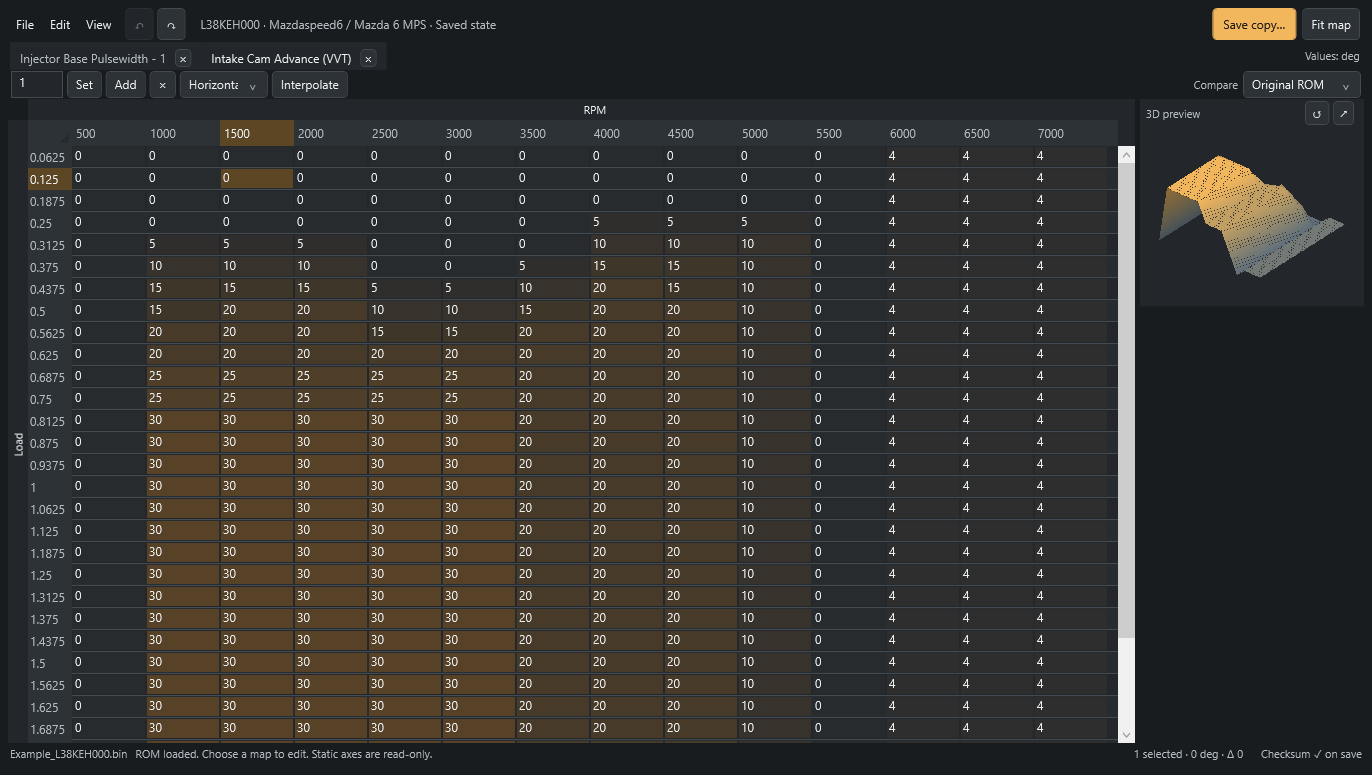
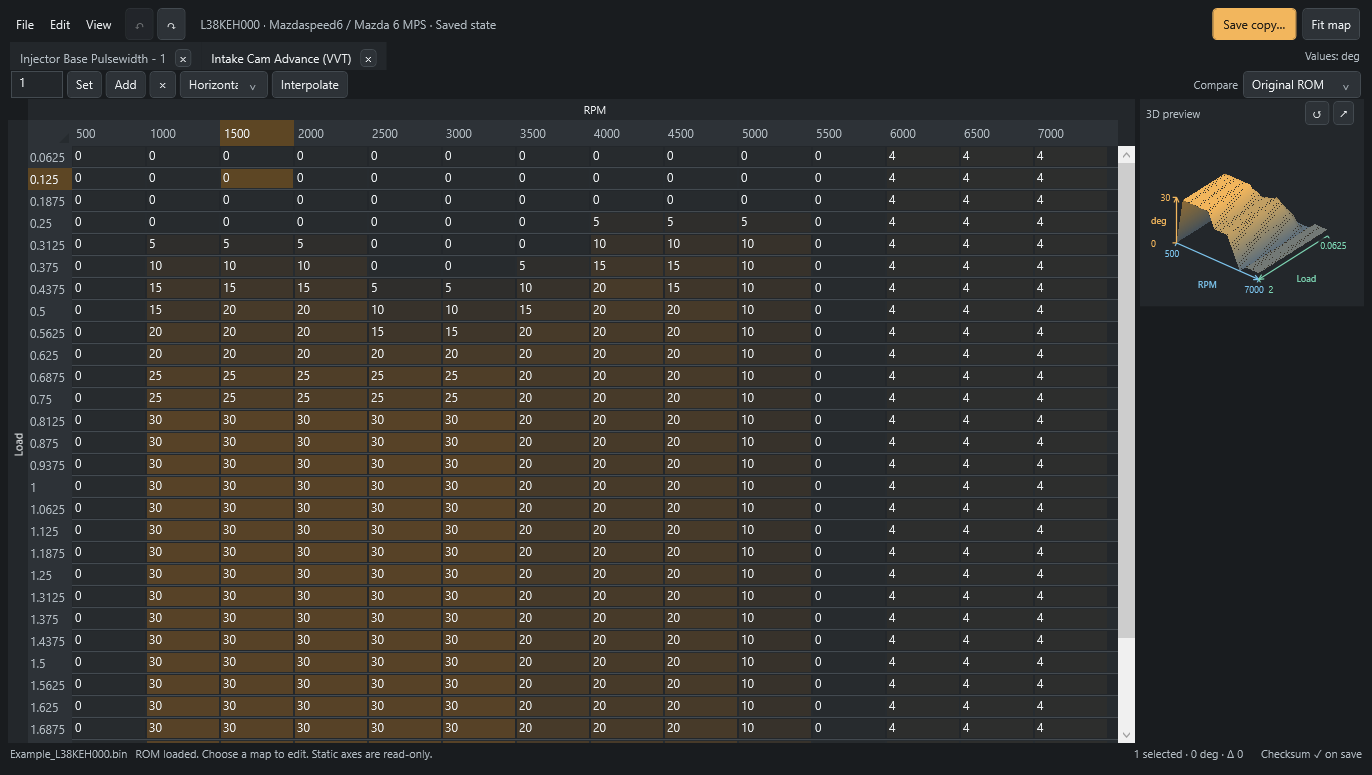
Label axes directly on 3D maps

Changed region(s): [[0.8265, 0.1858, 0.9796, 0.3716]]

diff --git a/dotnet/src/SpeedLink.Desktop/SurfaceAxes.cs b/dotnet/src/SpeedLink.Desktop/SurfaceAxes.cs
@@ -1,0 +1,97 @@
+using System.Globalization;
+using System.Windows;
+using System.Windows.Media;
+using System.Windows.Media.Media3D;
+using SpeedLink.Core;
+
+namespace SpeedLink.Desktop;
+
+/// <summary>Axis rulers attached to the surface's world coordinates, with screen-space text.</summary>
+internal sealed class SurfaceAxes : FrameworkElement
+{
+    private static readonly Brush XColor = new SolidColorBrush(Color.FromRgb(124, 196, 237));
+    private static readonly Brush YColor = new SolidColorBrush(Color.FromRgb(125, 213, 179));
+    private OrthographicCamera? camera;
+    private TuningTable? table;
+    private double[] finite = [];
+    private bool compact;
+    internal string Labels => table is null ? "" : $"{table.X.Name} {table.Y.Name} {table.Units}";
+    internal void SetData(TuningTable? definition, double[] values, bool small)
+    {
+        table = definition; finite = values.Where(double.IsFinite).ToArray(); compact = small; InvalidateVisual();
+    }
+    internal void SetCamera(OrthographicCamera value) { camera = value; InvalidateVisual(); }
+    internal Point Project(Point3D point)
+    {
+        if (camera is null) return new();
+        Vector3D right = Vector3D.CrossProduct(camera.LookDirection, camera.UpDirection); right.Normalize();
+        Vector3D up = Vector3D.CrossProduct(right, camera.LookDirection); up.Normalize();
+        Vector3D relative = point - (camera.Position + camera.LookDirection);
+        double scale = ActualWidth / camera.Width;
+        return new(ActualWidth / 2 + Vector3D.DotProduct(relative, right) * scale,
+            ActualHeight / 2 - Vector3D.DotProduct(relative, up) * scale);
+    }
+    protected override void OnRender(DrawingContext dc)
+    {
+        base.OnRender(dc);
+        if (camera is null || table is null || table.Rows <= 1 || finite.Length == 0 || ActualWidth < 80 || ActualHeight < 65) return;
+        double frontX = camera.Position.X >= 0 ? 1 : -1, frontZ = camera.Position.Z >= 0 ? 1 : -1;
+        var left = (from x in new[] { -1d, 1d } from z in new[] { -1d, 1d } select new Point3D(x, 0, z)).MinBy(p => Project(p).X);
+        var labels = new List<Rect>();
+        var titles = new List<(string Text, Point Position, Vector Outward, Brush Color)>();
+        var numbers = new List<(string Text, Point Position, Vector Outward, Brush Color)>();
+        Point center = Project(new(0, .5, 0));
+        var rulers = new[]
+        {
+            (Name: table.X.Name, Start: new Point3D(-1, 0, frontZ), End: new Point3D(1, 0, frontZ), Values: table.X.Values, Color: XColor),
+            (Name: table.Y.Name, Start: new Point3D(frontX, 0, -1), End: new Point3D(frontX, 0, 1), Values: table.Y.Values, Color: YColor),
+            (Name: string.IsNullOrWhiteSpace(table.Units) ? "Value" : compact ? table.Units : $"Value ({table.Units})", Start: left, End: left + new Vector3D(0, 1, 0), Values: new[] { finite.Min(), finite.Max() }, Color: (Brush)UiTheme.Amber)
+        };
+        foreach (var ruler in rulers)
+        {
+            Point a = Project(ruler.Start), b = Project(ruler.End); Vector direction = b - a;
+            if (direction.Length < 1) continue;
+            direction.Normalize(); var normal = new Vector(-direction.Y, direction.X);
+            Point middle = a + (b - a) * .5;
+            if (Vector.Multiply(normal, middle - center) < 0) normal = -normal;
+            var pen = new Pen(ruler.Color, compact ? 1.2 : 1.5);
+            dc.DrawLine(pen, a, b);
+            dc.DrawLine(pen, b, b - direction * 5 + normal * 2.5);
+            dc.DrawLine(pen, b, b - direction * 5 - normal * 2.5);
+            titles.Add((ruler.Name, middle + normal * (compact ? 25 : 32), normal, ruler.Color));
+            var ticks = ruler.Values.Where(double.IsFinite).Distinct().Order().ToArray();
+            if (ticks.Length == 0) continue;
+            int count = compact ? 2 : 4;
+            foreach (double tick in Enumerable.Range(0, Math.Min(count, ticks.Length)).Select(i => ticks[ticks.Length == 1 ? 0 : (int)Math.Round(i * (ticks.Length - 1d) / (Math.Min(count, ticks.Length) - 1))]).Distinct())
+            {
+                double scale = Math.Max(1, Math.Max(Math.Abs(ticks[0]), Math.Abs(ticks[^1])));
+                double span = ticks[^1] / scale - ticks[0] / scale;
+                double fraction = span < 1e-15 ? .5 : (tick / scale - ticks[0] / scale) / span;
+                Point point = Project(ruler.Start + (ruler.End - ruler.Start) * fraction);
+                dc.DrawLine(pen, point, point + normal * 4);
+                numbers.Add((tick.ToString("G4", CultureInfo.InvariantCulture), point + normal * 11, normal, ruler.Color));
+            }
+        }
+        foreach (var label in titles) DrawLabel(label.Text, label.Position, label.Outward, label.Color, true);
+        foreach (var label in numbers) DrawLabel(label.Text, label.Position, label.Outward, label.Color, false);
+        void DrawLabel(string value, Point position, Vector outward, Brush color, bool title)
+        {
+            var text = new FormattedText(value, CultureInfo.InvariantCulture, FlowDirection.LeftToRight,
+                new Typeface(title ? "Segoe UI Semibold" : "Segoe UI"), compact ? 9 : 11, color, VisualTreeHelper.GetDpi(this).PixelsPerDip)
+            { MaxTextWidth = Math.Max(30, compact && title ? ActualWidth * .4 : Math.Min(240, ActualWidth - 8)), MaxLineCount = 2, Trimming = TextTrimming.CharacterEllipsis };
+            for (int attempt = 0; attempt < 5; attempt++)
+            {
+                var box = new Rect(Math.Clamp(position.X - text.Width / 2, 3, Math.Max(3, ActualWidth - text.Width - 3)),
+                    Math.Clamp(position.Y - text.Height / 2, 3, Math.Max(3, ActualHeight - text.Height - 3)), text.Width, text.Height);
+                var padded = box; padded.Inflate(2, 1);
+                if (!labels.Any(other => other.IntersectsWith(padded)))
+                {
+                    labels.Add(padded);
+                    dc.DrawRoundedRectangle(new SolidColorBrush(Color.FromArgb(215, 35, 39, 43)), null, padded, 2, 2);
+                    dc.DrawText(text, box.TopLeft); return;
+                }
+                position += outward * 6;
+            }
+        }
+    }
+}

diff --git a/dotnet/src/SpeedLink.Desktop/TuningGraph.cs b/dotnet/src/SpeedLink.Desktop/TuningGraph.cs
@@ -11,9 +11,9 @@ namespace SpeedLink.Desktop;
 /// <summary>Independent WPF curve/surface viewer. Graph gestures select cells; values are edited in the grid.</summary>
 public sealed partial class TuningGraph : Grid
 {
-    private readonly Viewport3D viewport = new() { Margin = new(4, 4, 4, 24) };
+    private readonly Viewport3D viewport = new() { Margin = new(4) };
     private readonly CurvePlot curve = new();
-    private readonly TextBlock legend = new() { Foreground = Brushes.White, Margin = new(8), IsHitTestVisible = false, VerticalAlignment = VerticalAlignment.Bottom, FontSize = 11 };
+    private readonly SurfaceAxes axes = new() { IsHitTestVisible = false, Margin = new(4) };
     private readonly OrthographicCamera camera = new() { UpDirection = new(0, 1, 0), NearPlaneDistance = .1, FarPlaneDistance = 200 };
     private TuningTable? table;
     private double[] values = [];
@@ -22,18 +22,21 @@ public sealed partial class TuningGraph : Grid
     private Point? dragStart;
     private Point lastDrag;
     private GeometryModel3D? surface;
+    private bool compactPreview;
     internal Rect SurfaceFrame { get; private set; }
     internal Size SurfaceViewport => viewport.RenderSize;
     internal int SelectedCell => selected;
     internal void SetCompactPreview(bool compact)
     {
-        legend.Visibility = compact ? Visibility.Collapsed : Visibility.Visible;
-        viewport.Margin = compact ? new(4) : new(4, 4, 4, 24);
+        compactPreview = compact;
+        axes.SetData(table, values, compact);
+        Camera();
     }
     public event Action<int>? CellPicked;
     public TuningGraph()
     {
-        Background = Brushes.Transparent; ClipToBounds = true; Children.Add(viewport); Children.Add(curve); Children.Add(legend); viewport.Camera = camera;
+        Background = Brushes.Transparent; ClipToBounds = true;
+        Children.Add(viewport); Children.Add(curve); Children.Add(axes); viewport.Camera = camera;
         MouseLeftButtonDown += Down; MouseMove += Move; MouseLeftButtonUp += Up;
         MouseWheel += (_, e) => { if (table?.Rows > 1) { distance = Math.Clamp(distance * (e.Delta > 0 ? .9 : 1.1), 2.6, 12); Camera(); } else curve.Zoom(e.GetPosition(curve).X, e.Delta > 0 ? .8 : 1.25); e.Handled = true; };
         LostMouseCapture += (_, _) => dragStart = null;
@@ -58,25 +61,29 @@ public sealed partial class TuningGraph : Grid
         var direction = new Vector3D(Math.Cos(el) * Math.Sin(az), Math.Sin(el), Math.Cos(el) * Math.Cos(az));
         var right = Vector3D.CrossProduct(-direction, new(0, 1, 0)); right.Normalize(); var up = Vector3D.CrossProduct(right, -direction); up.Normalize();
         var bounds = mesh.Bounds; var center = new Point3D(bounds.X + bounds.SizeX / 2, bounds.Y + bounds.SizeY / 2, bounds.Z + bounds.SizeZ / 2);
-        var projected = mesh.Positions.Select(p => new Point(Vector3D.DotProduct(p - center, right), Vector3D.DotProduct(p - center, up))).ToArray();
+        var frame = mesh.Positions.Concat(from x in new[] { -1d, 1d } from y in new[] { 0d, 1d } from z in new[] { -1d, 1d } select new Point3D(x, y, z));
+        var projected = frame.Select(p => new Point(Vector3D.DotProduct(p - center, right), Vector3D.DotProduct(p - center, up))).ToArray();
         double spanX = Math.Max(.01, projected.Max(p => p.X) - projected.Min(p => p.X)), spanY = Math.Max(.01, projected.Max(p => p.Y) - projected.Min(p => p.Y));
         center += right * ((projected.Max(p => p.X) + projected.Min(p => p.X)) / 2) + up * ((projected.Max(p => p.Y) + projected.Min(p => p.Y)) / 2);
-        double aspect = Math.Max(1, viewport.ActualWidth) / Math.Max(1, viewport.ActualHeight);
-        camera.Width = Math.Max(spanX, spanY * aspect) * 1.12 * distance / 5;
+        double width = Math.Max(1, viewport.ActualWidth), height = Math.Max(1, viewport.ActualHeight);
+        double padding = Math.Clamp(Math.Min(width, height) * .1, 8, 40);
+        double usableWidth = Math.Max(1, width - padding * 2), usableHeight = Math.Max(1, height - padding * 2);
+        camera.Width = Math.Max(spanX / usableWidth, spanY / usableHeight) * width * 1.04 * distance / 5;
         camera.Position = center + direction * 10; camera.LookDirection = -direction * 10;
+        axes.SetCamera(camera);
         double pixelScale = viewport.ActualWidth / camera.Width;
         SurfaceFrame = new((viewport.ActualWidth - spanX * pixelScale) / 2, (viewport.ActualHeight - spanY * pixelScale) / 2, spanX * pixelScale, spanY * pixelScale);
     }
     private void Render()
     {
-        viewport.Children.Clear(); viewport.Visibility = table?.Rows > 1 ? Visibility.Visible : Visibility.Collapsed;
+        viewport.Children.Clear(); surface = null; SurfaceFrame = Rect.Empty;
+        viewport.Visibility = axes.Visibility = table?.Rows > 1 ? Visibility.Visible : Visibility.Collapsed;
         curve.Visibility = table?.Rows > 1 ? Visibility.Collapsed : Visibility.Visible;
         curve.Table = table; curve.Values = values; curve.Selected = selected; curve.InvalidateVisual();
-        legend.Text = table is null ? "" : table.Rows > 1 ? $"X: {table.X.Name} [{table.X.Values[0]:G5} … {table.X.Values[^1]:G5}]   ·   Y: {table.Y.Name} [{table.Y.Values[0]:G5} … {table.Y.Values[^1]:G5}]   ·   Height: {table.Units}" : "";
+        axes.SetData(table, values, compactPreview);
         if (table is null || table.Rows <= 1) return;
         var finite = values.Where(double.IsFinite).ToArray(); if (finite.Length == 0) return;
         double min = finite.Min(), max = finite.Max(), scale = Math.Max(1, Math.Max(Math.Abs(min), Math.Abs(max))), low = min / scale, span = max / scale - low;
-        legend.Text += $" [{min:G5} … {max:G5}]";
         static double Coordinate(double value, double[] axis) { double min = axis.Min(), max = axis.Max(); return max == min ? 0 : (value - min) / (max - min) * 2 - 1; }
         var mesh = new MeshGeometry3D();
         for (int row = 0; row < table.Rows; row++) for (int col = 0; col < table.Columns; col++)

diff --git a/dotnet/src/SpeedLink.Desktop/EditorWorkspace.xaml.cs b/dotnet/src/SpeedLink.Desktop/EditorWorkspace.xaml.cs
@@ -351,15 +351,19 @@ public partial class EditorWorkspace : UserControl
         OpenTable(illustrated); FocusButton.IsChecked = true; DetailsButton.IsChecked = false; FitMap_Click(this, new()); SelectCell(illustrated.Columns + 2); UpdateLayout();
         await Dispatcher.InvokeAsync(() => { }, System.Windows.Threading.DispatcherPriority.ApplicationIdle); UpdateLayout();
         Graph.CheckSurfaceDrag();
+        Graph.CheckSurfaceAxes();
         Capture(Path.Combine(folder, "SurfaceEditor.png"));
+        CaptureElement(GraphPanel, Path.Combine(folder, "CompactSurface.png"));
         PopGraph_Click(this, new()); graphWindow!.UpdateLayout();
         await Dispatcher.InvokeAsync(() => { }, System.Windows.Threading.DispatcherPriority.ApplicationIdle);
         CaptureWindow(graphWindow, Path.Combine(folder, "VvtSurface.png")); DockGraph_Click(this, new());
-        return new { passed = true, calibration = doc.Definition.Calibration, controls = doc.Definition.Tables.Count, grid = true, directCellCommit = true, curve = true, surface = true, surfaceFollowsDrag = true, bitSelector = true, undoRedo = true, comparison = true, changedFilter = true, noEditExportIdentical = true, focusedAndAllViews = true, changesDrawer = true, workspaceEditsPreserved = true };
+        return new { passed = true, calibration = doc.Definition.Calibration, controls = doc.Definition.Tables.Count, grid = true, directCellCommit = true, curve = true, surface = true, surfaceFollowsDrag = true, surfaceAxesFollowCamera = true, bitSelector = true, undoRedo = true, comparison = true, changedFilter = true, noEditExportIdentical = true, focusedAndAllViews = true, changesDrawer = true, workspaceEditsPreserved = true };
     }
-    private void Capture(string path)
+    private void Capture(string path) => CaptureElement(this, path);
+    private static void CaptureElement(FrameworkElement element, string path)
     {
-        var bitmap = new RenderTargetBitmap((int)ActualWidth, (int)ActualHeight, 96, 96, PixelFormats.Pbgra32); bitmap.Render(this);
+        var bitmap = new RenderTargetBitmap((int)Math.Ceiling(element.ActualWidth), (int)Math.Ceiling(element.ActualHeight), 96, 96, PixelFormats.Pbgra32);
+        var drawing = new DrawingVisual(); using (var context = drawing.RenderOpen()) context.DrawRectangle(new VisualBrush(element), null, new Rect(element.RenderSize)); bitmap.Render(drawing);
         var encoder = new PngBitmapEncoder(); encoder.Frames.Add(BitmapFrame.Create(bitmap)); using var stream = File.Create(path); encoder.Save(stream);
     }
 }

diff --git a/dotnet/src/SpeedLink.Desktop/EditorLayoutChecks.cs b/dotnet/src/SpeedLink.Desktop/EditorLayoutChecks.cs
@@ -44,6 +44,7 @@ public partial class EditorWorkspace
         }
         await CheckTableAxes(sample);
         Graph.CheckSurfaceDrag();
+        Graph.CheckSurfaceAxes();
         SelectCell(0); byte[] precise = document.Snapshot(); double exact = document.Read(sample, 0);
         if (!MapGrid.BeginEdit()) throw new InvalidOperationException("Cannot enter a fitted table cell."); UpdateLayout();
         if (MapGrid.Columns[0].GetCellContent(MapGrid.Items[0]) is not TextBox input || input.Text != exact.ToString("R", CultureInfo.InvariantCulture))
@@ -60,6 +61,7 @@ public partial class EditorWorkspace
             graphWindow!.Width = size.Item1; graphWindow.Height = size.Item2; graphWindow.UpdateLayout(); Graph.ResetView();
             await Dispatcher.InvokeAsync(() => { }, System.Windows.Threading.DispatcherPriority.ApplicationIdle);
             Graph.CheckSurfaceDrag();
+            Graph.CheckSurfaceAxes();
             var frame = Graph.SurfaceFrame; var viewport = Graph.SurfaceViewport;
             double fill = Math.Max(frame.Width / viewport.Width, frame.Height / viewport.Height);
             if (fill < .75 || fill > 1 || frame.Left < -.5 || frame.Top < -.5 || frame.Right > viewport.Width + .5 || frame.Bottom > viewport.Height + .5)
@@ -110,7 +112,7 @@ public partial class EditorWorkspace
         if (!saved.BrowserHidden || saved.View != 2 || saved.BrowserWidth != 230) throw new InvalidOperationException("Layout did not persist.");
         curveWidth = 325; PopBrowser_Click(this, new()); PopGraph_Click(this, new()); SaveLayout();
         return new { passed = true, hardwareAccessed = false, synthetic = true, full16x16 = measurements, precisionPreserved = true, mapInfoUsesNoTableSpace = true,
-            popoutsPreserveEdits = true, surfaceFitsWideAndTallPanes = true, surfaceFollowsDrag = true, compactPreview = true, axisLabelsAligned = true, axisTitlesFrozen = true, selectedHeadersHighlighted = true, mafPoints = maf.Count, mafVoltageReadOnly = true, mafLastPointLinked = true, curveZoom = true,
+            popoutsPreserveEdits = true, surfaceFitsWideAndTallPanes = true, surfaceFollowsDrag = true, surfaceAxesFollowCamera = true, compactPreview = true, axisLabelsAligned = true, axisTitlesFrozen = true, selectedHeadersHighlighted = true, mafPoints = maf.Count, mafVoltageReadOnly = true, mafLastPointLinked = true, curveZoom = true,
             mafBulkEditsAndClipboard = true, checksumVerified = true, layoutPersisted = true };
     }
     internal void CheckRestoredLayout()

diff --git a/dotnet/src/SpeedLink.Desktop/TuningGraphChecks.cs b/dotnet/src/SpeedLink.Desktop/TuningGraphChecks.cs
@@ -32,4 +32,34 @@ public sealed partial class TuningGraph
         RotateSurface(new(0, -10000)); if (elevation != 10) throw new InvalidOperationException("Lower tilt limit failed.");
         ResetView();
     }
+    internal void CheckSurfaceAxes()
+    {
+        if (table is null || table.Rows <= 1 || !axes.IsVisible || viewport.ActualWidth <= 0)
+            throw new InvalidOperationException("The surface axis guide is missing.");
+        string labels = axes.Labels;
+        if (!labels.Contains(table.X.Name, StringComparison.Ordinal) ||
+            !labels.Contains(table.Y.Name, StringComparison.Ordinal) ||
+            !labels.Contains(table.Units, StringComparison.Ordinal))
+            throw new InvalidOperationException("Surface axis names do not match the table.");
+        double savedYaw = yaw, savedElevation = elevation;
+        try
+        {
+            foreach (double angle in new[] { 0d, 40, 90, 180, 270 })
+            foreach (double tilt in new[] { 10d, 32, 80 })
+            {
+                yaw = angle; elevation = tilt; Camera();
+                var projection = viewport.Children[0].TransformToAncestor(viewport);
+                var origin = projection.Transform(new Point3D());
+                foreach (var expected in new[] { ("X", new Vector3D(1, 0, 0)), ("Y", new Vector3D(0, 0, 1)), ("Z", new Vector3D(0, 1, 0)) })
+                {
+                    var tip = projection.Transform(new Point3D() + expected.Item2);
+                    Vector projected = (tip - origin) * (camera.Width / viewport.ActualWidth);
+                    Vector guide = (axes.Project(new Point3D() + expected.Item2) - axes.Project(new Point3D())) * (camera.Width / axes.ActualWidth);
+                    if (!double.IsFinite(guide.X) || !double.IsFinite(guide.Y) || (guide - projected).Length > .000001)
+                        throw new InvalidOperationException("Axis guide does not follow the surface camera: " + expected.Item1);
+                }
+            }
+        }
+        finally { yaw = savedYaw; elevation = savedElevation; Camera(); }
+    }
 }

diff --git a/dotnet/src/SpeedLink.Desktop/MainWindow.xaml.cs b/dotnet/src/SpeedLink.Desktop/MainWindow.xaml.cs
@@ -17,7 +17,7 @@ namespace SpeedLink.Desktop;
 
 public partial class MainWindow : Window
 {
-    public const string Version = "0.5.4-alpha.3";
+    public const string Version = "0.5.4-alpha.4";
     private void Editor_Click(object sender, RoutedEventArgs e) => Navigate(1);
     private readonly string vault;
     private readonly RomInspector inspector = new();

diff --git a/README.md b/README.md
@@ -4,7 +4,7 @@ Open-source ROM reading, data logging and offline ROM editing for Mazdaspeed and
 
 [![C# checks](https://github.com/mrphyslaw/SpeedLink/actions/workflows/checks-dotnet.yml/badge.svg)](https://github.com/mrphyslaw/SpeedLink/actions/workflows/checks-dotnet.yml)
 
-**[Download v0.5.4-alpha.3](https://github.com/mrphyslaw/SpeedLink/releases/tag/v0.5.4-alpha.3)** — a single Windows EXE, with no installer or .NET installation required.
+**[Download v0.5.4-alpha.4](https://github.com/mrphyslaw/SpeedLink/releases/tag/v0.5.4-alpha.4)** — a single Windows EXE, with no installer or .NET installation required.
 
 SpeedLink can dump unknown 1 MiB MZR DISI ROMs, create two-pass verified backups,
 log stock-ECU data, review recordings and edit the seven supported stock ROM layouts.
@@ -54,7 +54,8 @@ keep a small surface preview at the upper-right of the grid; MAF curves keep
 their value list on the left and graph on the right.
 Axis names sit directly above the column breakpoints and beside the row
 breakpoints. Selected row and column headers highlight together; value units
-stay beside the map tabs.
+stay beside the map tabs. 3D maps carry labeled axis rulers and tick values
+directly on their frame, aligned with the surface as it rotates.
 
 1. Open **Editor**, then **File → Open ROM…**.
 2. Select a map from the categorized list or use search. Related numbered maps
@@ -145,7 +146,7 @@ Related RomRaider definitions are available in [MazdaSpeedDefs](https://github.c
 
 ## Status and development
 
-**Current release: [v0.5.4-alpha.3](https://github.com/mrphyslaw/SpeedLink/releases/tag/v0.5.4-alpha.3), a Windows Workbench alpha.**
+**Current release: [v0.5.4-alpha.4](https://github.com/mrphyslaw/SpeedLink/releases/tag/v0.5.4-alpha.4), a Windows Workbench alpha.**
 
 - **Available:** ROM reading, two-pass verified backups, known-ROM checks and
   checksum correction to a separate file; live logging, charts, CSV recording

diff --git a/dotnet/docs/Validation.md b/dotnet/docs/Validation.md
@@ -1,5 +1,18 @@
 # C# validation
 
+## Map-mounted 3D axes — 0.5.4-alpha.4
+
+- Blue column-axis, green row-axis and amber value-axis rulers are projected
+  from the map's 3D coordinates. Names, units and ticks come from the current
+  definition and values. The compact preview uses fewer tick labels.
+- Native projection checks compare all three directions with WPF at five
+  azimuths and three elevations, in compact and wide/tall floating views.
+- The existing 279 C# tests and seven-profile layout, Workbench and import
+  workflows remain required, including full 16×16 fitting, long MAF editing,
+  linked selection, precision, menu behavior and mandatory checksum exports.
+- The VVT example demonstrates the approved labeled surface. Its source ROM
+  remains unchanged. No new adapter or real-ECU validation is claimed.
+
 ## Surface dragging and experimental Mongoose — 0.5.4-alpha.3
 
 - Horizontal dragging now makes the visible surface follow the pointer.

diff --git a/docs/EDITOR.md b/docs/EDITOR.md
@@ -47,6 +47,11 @@ their directly labeled breakpoint/value columns.
   and use **Fit view** to restore the camera. Curves support wheel zoom and
   Shift+drag panning; selecting a list value brings that point into view.
 
+3D maps carry their axis lines, labels and tick values directly on the surface
+frame. Blue identifies the column axis, green the row axis, and amber the map's
+value/height axis. The rulers stay aligned while you rotate. The compact preview
+uses fewer tick labels; the floating graph shows more detail.
+
 Long curves, including the 129-point MAF calibrations, use a vertical breakpoint
 and value list alongside the graph. Only the value column is editable. Copy
 includes both columns at full precision; paste accepts a value column, matching

diff --git a/docs/editor/README.md b/docs/editor/README.md
@@ -44,6 +44,10 @@ MAF editor. Its controls and linked cell selection work the same way.
 
 ![An intake cam advance VVT surface showing its raised areas and transitions](images/surface-editor.png)
 
+Axis lines, names and tick values sit directly on the map. Blue is the column
+axis, green is the row axis, and amber is the value/height axis. They stay aligned
+as you rotate. The preview keeps fewer ticks; the larger graph shows more detail.
+
 Drag to rotate a surface in the direction of your mouse and use the wheel to zoom.
 The preview and floating graph use the same controls. Click a point on the
 graph to select its grid cell. Resizable panes let you give the grid or graph
